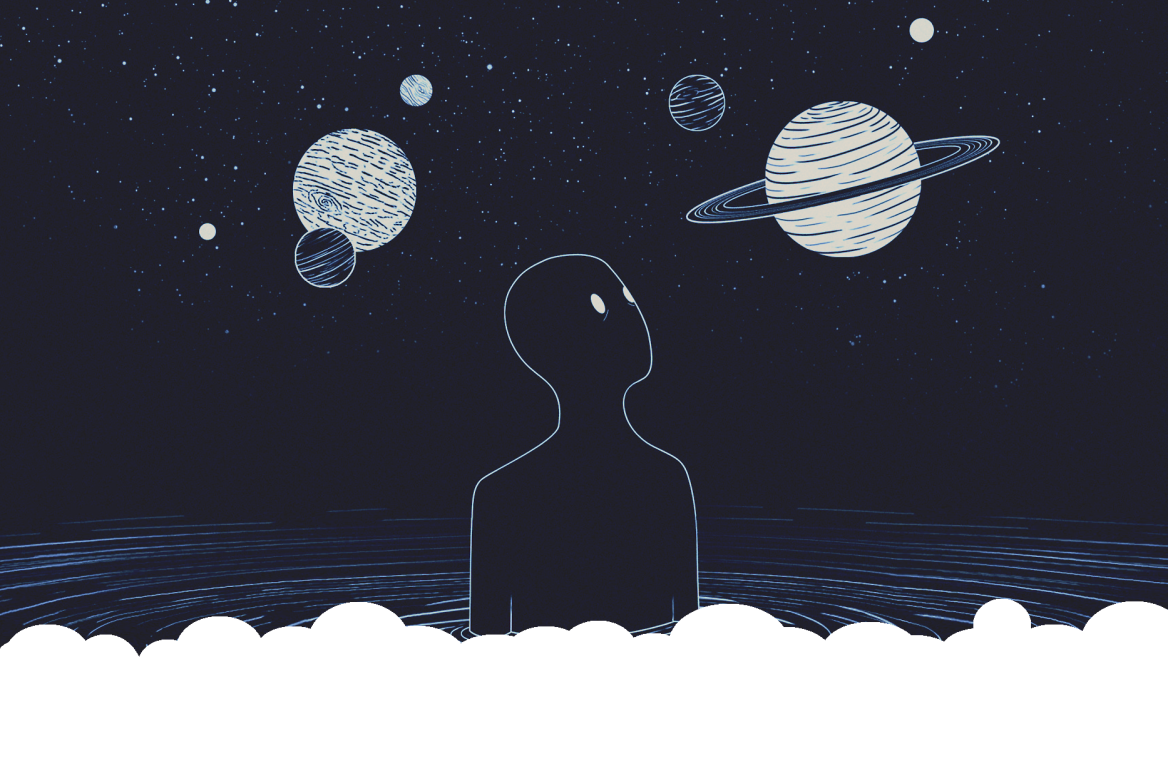
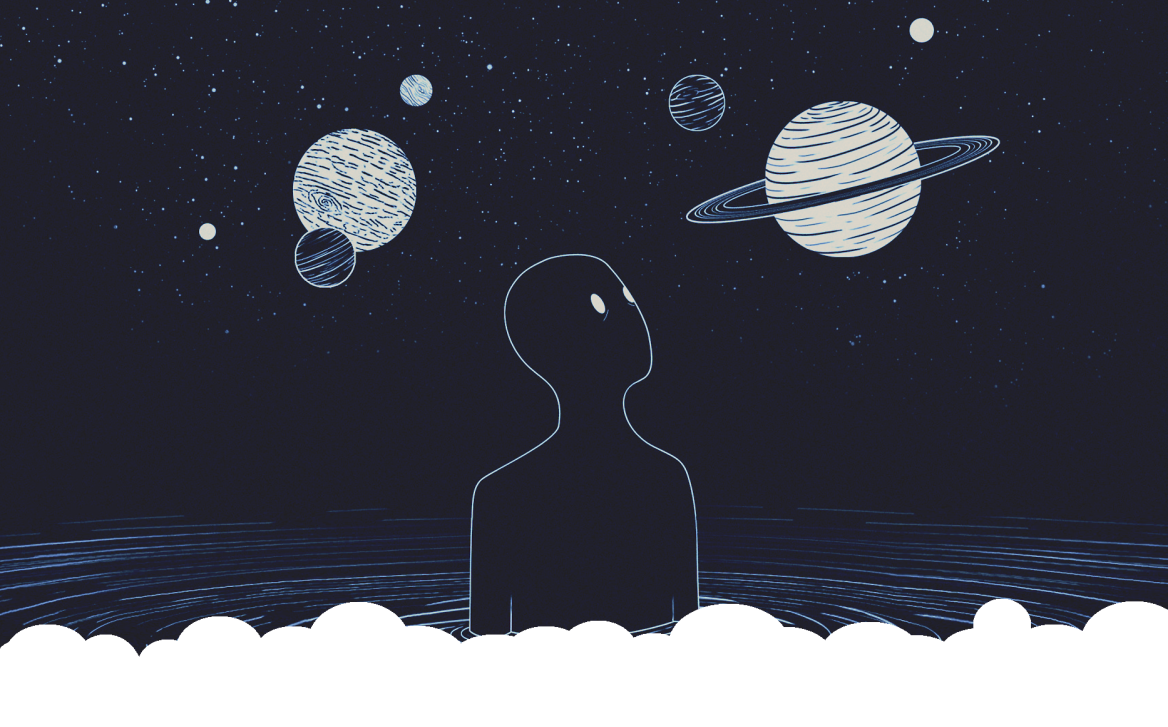
fixed header

diff --git a/src/components/Body.js b/src/components/Body.js
@@ -4,6 +4,7 @@ import { styled } from '@mui/material/styles';
 import Button from "@material-ui/core/Button";
 // import background from './images/Background.png'; 
 import secondaryImage from '../images/Type.png'; 
+import background from '../images/Background.png'; 
 import Grid from '@mui/material/Grid';
 import { Typography } from "@material-ui/core";
 import Container from '@mui/material/Box';
@@ -18,19 +19,20 @@ const Img = styled('img')({
 const Body = () => {
     return (
         <React.Fragment>
-            <header className="bg-image">
+            <header>
                 <div>
+                    <img class="imgcontainer" src={background}/>
                     <Button class="soloplay">Solo Play</Button>
                     <Button class="multiplay">Multi Play</Button>
                 </div>
-            </header> 
+            </header>
             <Container class="container">
                 <Grid container alignItems="center">
                     <Grid item>
                         <Img  src={secondaryImage}/>
                     </Grid>
                     <Grid item xs={12} sm container>
-                        <Grid item xs container direction="column" spacing={2}>
+                        <Grid item xs container direction="column">
                             <Grid item xs>
                                 <Typography gutterBottom variant="subtitle1" component="div">
                                     <div>

diff --git a/src/components/Body.css b/src/components/Body.css
@@ -1,11 +1,9 @@
 header{
     color: white;
-    background: #37387a;
-    background-image: url("../images/Background.png");
-    min-height: 50vh;
+    min-height: auto;
+    max-width: auto;
     text-align: center;
     position: relative;
-    margin-bottom: 100px;
     z-index: 1;
     overflow: hidden;
     background-position: center; /* Center the image */
@@ -18,8 +16,6 @@ header{
 }
 
 .container{
-    /* align-content: center;
-    align-items: center; */
     padding-left: 12%;
     padding-bottom: 12%;
     height: fit-content;
@@ -85,6 +81,9 @@ p{
     font-weight: bold;
 }
 
+.imgcontainer {
+    width: 100%;
+  }
 .multiplay{
     position:absolute;
     top: 58%;
